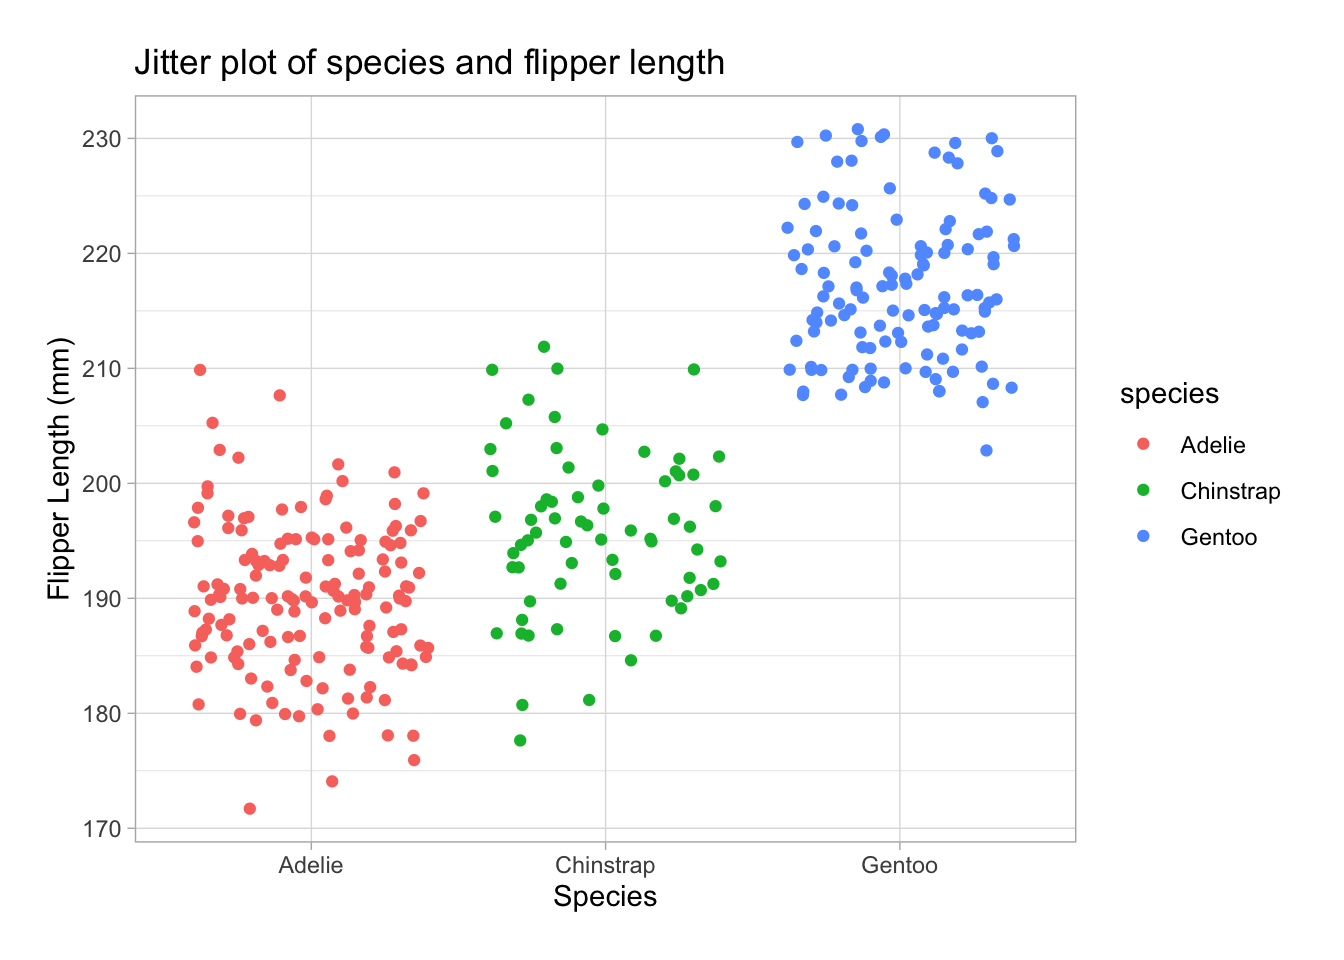
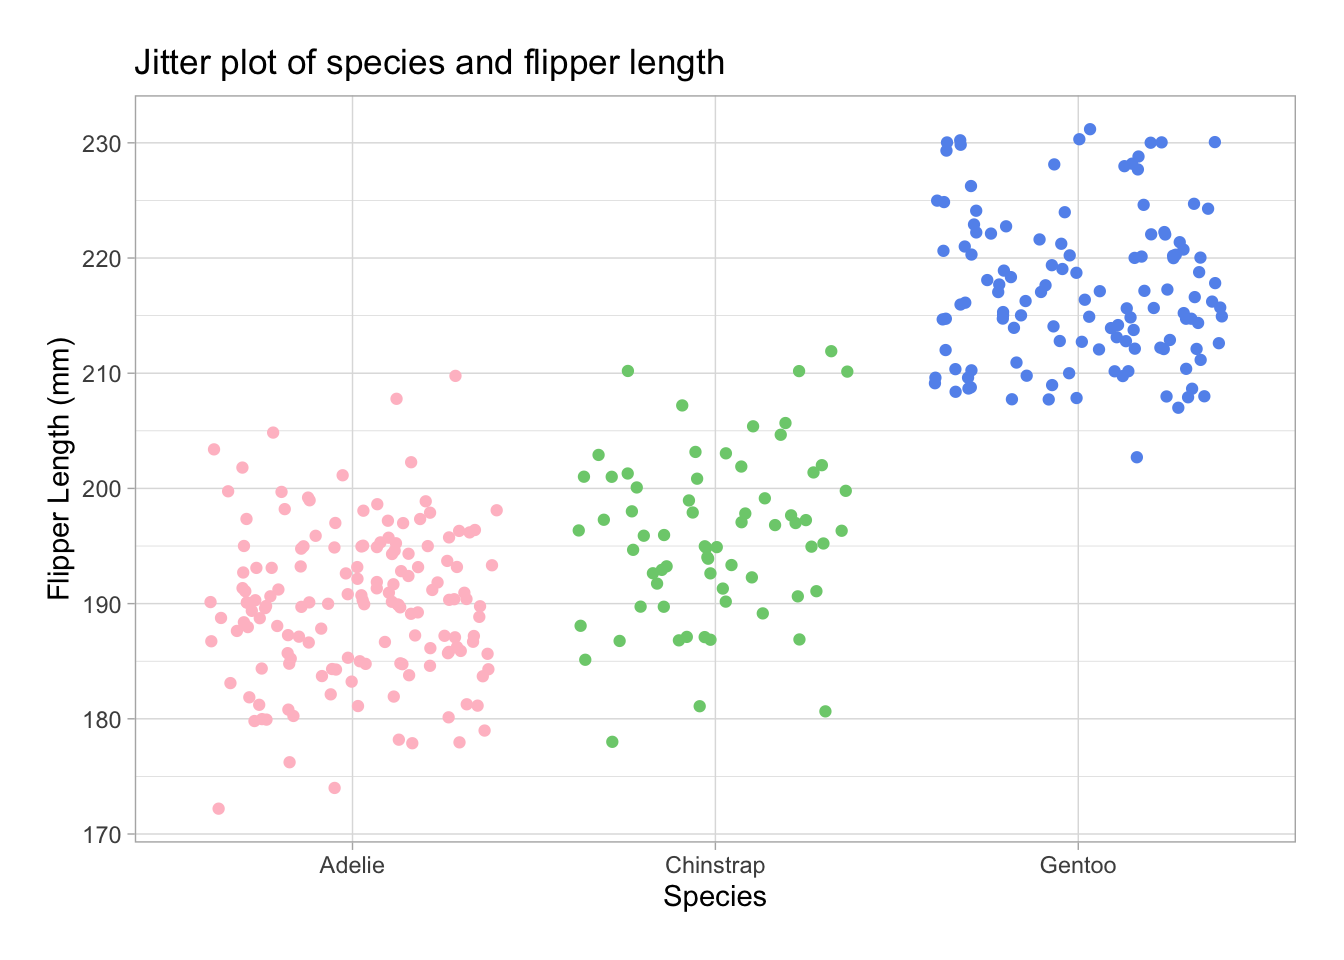
Chagned color on jitter plot

diff --git a/eds-212-day-2-tasks.html b/eds-212-day-2-tasks.html
@@ -179,10 +179,17 @@ pre > code.sourceCode > span > a:first-child::before { text-decoration: underlin
 <span id="cb10-2"><a href="#cb10-2" aria-hidden="true" tabindex="-1"></a><span class="fu">ggplot</span>(penguins, <span class="fu">aes</span>(species, flipper_length_mm, <span class="at">color =</span> species)) <span class="sc">+</span></span>
 <span id="cb10-3"><a href="#cb10-3" aria-hidden="true" tabindex="-1"></a>  <span class="fu">geom_jitter</span>() <span class="sc">+</span> </span>
 <span id="cb10-4"><a href="#cb10-4" aria-hidden="true" tabindex="-1"></a>  <span class="fu">labs</span>(<span class="at">title =</span> <span class="st">"Jitter plot of species and flipper length"</span>, <span class="at">x =</span> <span class="st">"Species"</span>, <span class="at">y =</span> <span class="st">"Flipper Length (mm)"</span>) <span class="sc">+</span></span>
-<span id="cb10-5"><a href="#cb10-5" aria-hidden="true" tabindex="-1"></a>  <span class="fu">theme_light</span>() <span class="sc">+</span> </span>
-<span id="cb10-6"><a href="#cb10-6" aria-hidden="true" tabindex="-1"></a>  <span class="fu">theme</span>(<span class="at">plot.margin =</span> <span class="fu">unit</span>(<span class="fu">c</span>(<span class="fl">0.25</span>, <span class="fl">0.25</span>, <span class="fl">0.25</span>, <span class="fl">0.25</span>), <span class="st">"inches"</span>))</span></code><button title="Copy to Clipboard" class="code-copy-button"><i class="bi"></i></button></pre></div>
+<span id="cb10-5"><a href="#cb10-5" aria-hidden="true" tabindex="-1"></a>  <span class="fu">scale_color_manual</span>(<span class="at">values=</span><span class="fu">c</span>(<span class="st">'pink'</span>,<span class="st">'palegreen3'</span>,<span class="st">'cornflowerblue'</span>),</span>
+<span id="cb10-6"><a href="#cb10-6" aria-hidden="true" tabindex="-1"></a>                       <span class="at">guide=</span><span class="cn">FALSE</span>) <span class="sc">+</span></span>
+<span id="cb10-7"><a href="#cb10-7" aria-hidden="true" tabindex="-1"></a>  <span class="fu">theme_light</span>() <span class="sc">+</span> </span>
+<span id="cb10-8"><a href="#cb10-8" aria-hidden="true" tabindex="-1"></a>  <span class="fu">theme</span>(<span class="at">plot.margin =</span> <span class="fu">unit</span>(<span class="fu">c</span>(<span class="fl">0.25</span>, <span class="fl">0.25</span>, <span class="fl">0.25</span>, <span class="fl">0.25</span>), <span class="st">"inches"</span>))</span></code><button title="Copy to Clipboard" class="code-copy-button"><i class="bi"></i></button></pre></div>
 <div class="cell-output cell-output-stderr">
 <pre><code>Warning: Removed 2 rows containing missing values (`geom_point()`).</code></pre>
+</div>
+<div class="cell-output cell-output-stderr">
+<pre><code>Warning: The `guide` argument in `scale_*()` cannot be `FALSE`. This was deprecated in
+ggplot2 3.3.4.
+ℹ Please use "none" instead.</code></pre>
 </div>
 <div class="cell-output-display">
 <p><img src="eds-212-day-2-tasks_files/figure-html/unnamed-chunk-5-1.png" class="img-fluid" width="672"></p>
